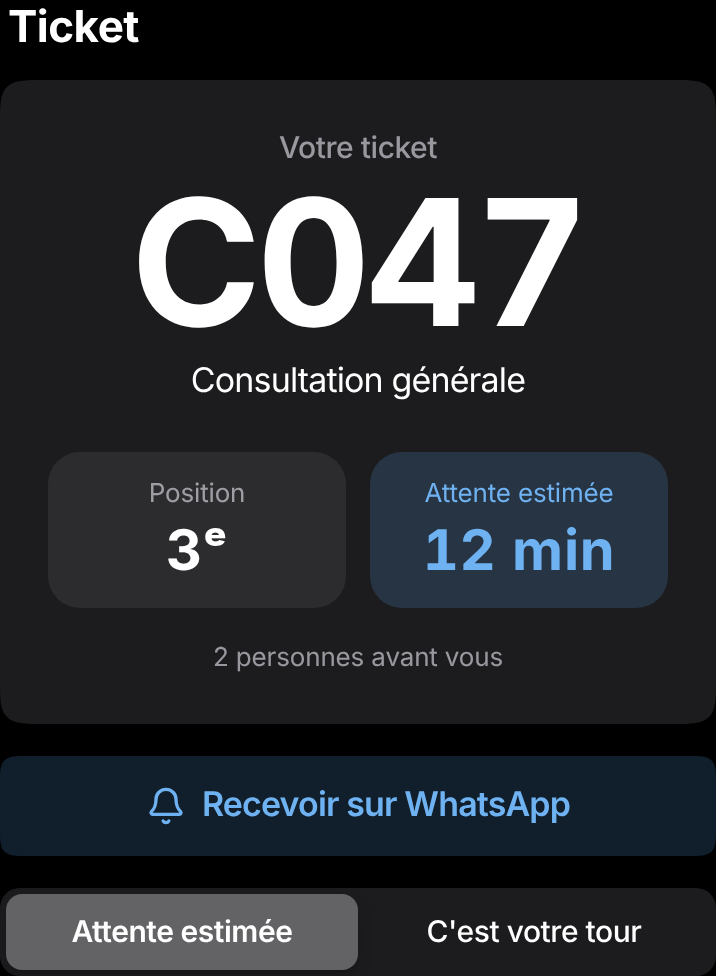
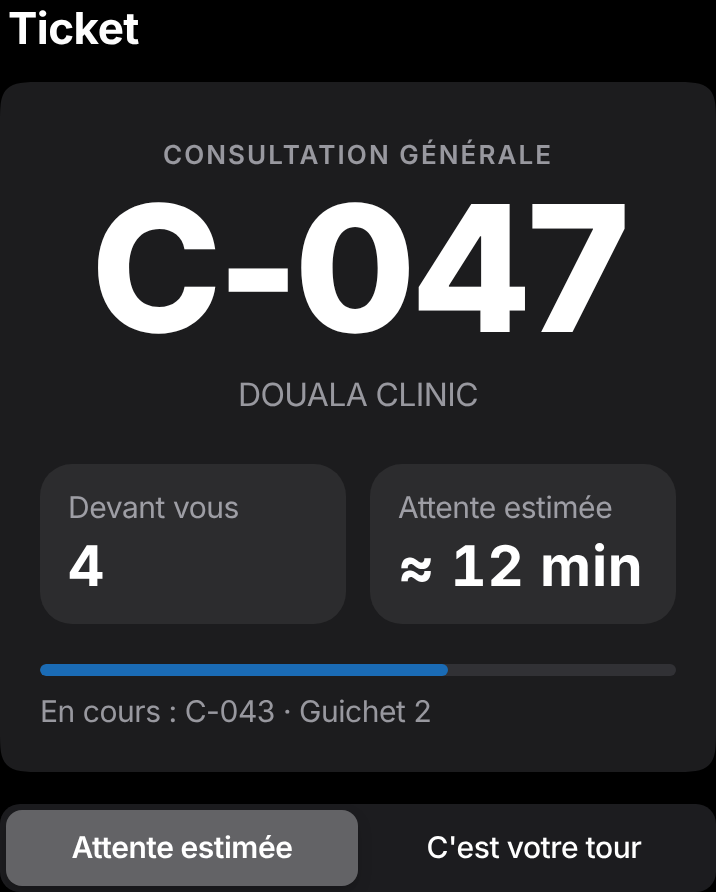
docs: document mockup conventions and refresh M1 screenshots
CLAUDE.md lists the new components, ticket format and mockup mapping; PLAN uses the C-047 format; M1 note and captures updated.

Claude-Session: https://claude.ai/code/session_01HLSS5wEAraJuriJxQHkzit

diff --git a/docs/PLAN.md b/docs/PLAN.md
@@ -160,7 +160,7 @@ subscription_status: trialing | active | past_due | suspended | cancelled
 | Table | Colonnes clés | Contraintes / index |
 |---|---|---|
 | `daily_sequences` | `service_id`, `service_day date`, `last_number` | PK (`service_id`,`service_day`) — incrément atomique `INSERT … ON CONFLICT DO UPDATE … RETURNING` ; jour calculé dans le fuseau de l'agence |
-| `tickets` | `organization_id`, `branch_id`, `service_id`, `service_day`, `number`, `display_code` (ex. `C047`), `public_token` unique (NULL après purge), `customer_user_id` (anonyme ou compte), `source`, `priority_level` smallint (0 normal, 1 prioritaire), `priority_reason`, `status`, `sort_key bigint`, `counter_id` (guichet qui appelle/sert), `preferred_counter_id` (RDV avec un praticien), `appointment_id`, `created_by` (staff), `called_at`, `serving_started_at`, `finished_at`, `recall_count`, `transferred_from_id`, **distance** : `is_remote`, `presence_confirmed_at`, `delay_count`, **note** : `rating` 1-5, `rating_comment`, `rated_at` | unique (`service_id`,`service_day`,`number`) ; **idx partiel** (`service_id`,`priority_level` DESC,`sort_key`) WHERE `status='waiting'` ; idx (`branch_id`,`service_day`,`status`) ; idx (`customer_user_id`) ; idx (`counter_id`) WHERE `status IN ('called','serving')` |
+| `tickets` | `organization_id`, `branch_id`, `service_id`, `service_day`, `number`, `display_code` (ex. `C-047`, format `formatTicketCode`), `public_token` unique (NULL après purge), `customer_user_id` (anonyme ou compte), `source`, `priority_level` smallint (0 normal, 1 prioritaire), `priority_reason`, `status`, `sort_key bigint`, `counter_id` (guichet qui appelle/sert), `preferred_counter_id` (RDV avec un praticien), `appointment_id`, `created_by` (staff), `called_at`, `serving_started_at`, `finished_at`, `recall_count`, `transferred_from_id`, **distance** : `is_remote`, `presence_confirmed_at`, `delay_count`, **note** : `rating` 1-5, `rating_comment`, `rated_at` | unique (`service_id`,`service_day`,`number`) ; **idx partiel** (`service_id`,`priority_level` DESC,`sort_key`) WHERE `status='waiting'` ; idx (`branch_id`,`service_day`,`status`) ; idx (`customer_user_id`) ; idx (`counter_id`) WHERE `status IN ('called','serving')` |
 | `ticket_events` | `ticket_id`, `organization_id`, `type` (created, called, recalled, serving, served, no_show, transferred, moved_back, cancelled, presence_confirmed, rated), `actor_user_id`, `counter_id`, `payload jsonb` | idx (`ticket_id`) ; idx (`organization_id`,`created_at`) — base des statistiques |
 | `appointments` | `organization_id`, `branch_id`, `service_id`, `counter_id`, `scheduled_at`, `customer_label` (initiales, jamais annoncé), `phone_e164` (purgé), `status`, `ticket_id` | idx (`branch_id`,`scheduled_at`) |
 | `service_time_stats` | `service_id`, `counter_id` (NULL = moyenne service), `ewma_seconds`, `samples`, `updated_at` | PK (`service_id`, `counter_id` COALESCE) — mis à jour par trigger à chaque `served` |
@@ -299,7 +299,7 @@ Désactivé par défaut (`remote_tickets_enabled = false`). À `remote_confirm_t
 - L'écran TV hors ligne conserve le dernier état + l'audio en cache ; les annonces reprennent au retour.
 
 ### 5.5 Notifications (M7)
-- Opt-in : bouton « Recevoir mes alertes sur WhatsApp » → `https://wa.me/<numéro>?text=NEXTIN C047-7K3Q` (code ticket + suffixe du token). Le webhook (`whatsapp-webhook`, signature `X-Hub-Signature-256` vérifiée avec `WHATSAPP_APP_SECRET`) lie `wa_id` au ticket, ouvre `window_expires_at = now() + 24 h`, répond `ticket_confirme`.
+- Opt-in : bouton « Recevoir mes alertes sur WhatsApp » → `https://wa.me/<numéro>?text=NEXTIN C-047 7K3Q` (code ticket + suffixe du token). Le webhook (`whatsapp-webhook`, signature `X-Hub-Signature-256` vérifiée avec `WHATSAPP_APP_SECRET`) lie `wa_id` au ticket, ouvre `window_expires_at = now() + 24 h`, répond `ticket_confirme`.
 - Dans la fenêtre : messages de service ; hors fenêtre : modèles approuvés FR/EN `ticket_confirme`, `bientot_votre_tour`, `cest_votre_tour`, `ticket_recule`.
 - `STOP` → `whatsapp_opt_outs` + `opted_out_at`.
 - Dispatcher : WhatsApp → web push (si abonnement) → SMS si pas de WhatsApp, échec de remise ou statut `failed` reçu par webhook (délai de garde 2 min sur `your_turn`). Jamais de nom de client dans les messages.

diff --git a/CLAUDE.md b/CLAUDE.md
@@ -50,13 +50,15 @@ Vitrine de référence : `/design` (`components/design/design-showcase.tsx`). To
 - Accents Wintek **avec parcimonie** : Navy `#0D2C54` (marque), Blue `#1A6BB5` = **seule couleur d'action** (`bg-accent`, `text-accent-text`, `text-accent-on-tint` sur fond teinté), Orange `#F58B1F` (attention), Green `#2EC04E` (succès). Orange/Green en fond ou icône ; pour du texte, utiliser `text-orange-text` / `text-green-text` (AA).
 - `text-label-tertiary` : icônes, chevrons, placeholders seulement — jamais pour du texte informatif (contraste).
 - **Formes** : fond groupé `#F2F2F7`, cartes blanches, rayons continus 12–22 px (`rounded-[var(--radius-*)]` + `squircle`), séparateurs 0,5 px (`hairline-*`), ombres très douces (`shadow-card`).
-- **Composants** (`components/ui`) : `Button` (filled/tinted/gray/plain/destructive/navy), `IconButton` (label obligatoire), `ListSection`/`ListRow`/`ListSwitchRow`, `Card`, `Switch`, `SegmentedControl`, `TextField`/`SearchField`, `NavigationBar` (grand titre réductible + retour en haut à gauche), `TabBar` (translucide, en bas sur mobile), `Sheet` (vaul), `AlertDialog`, `Badge`/`StatusDot`, `Skeleton`, `Spinner`, `ToastProvider`, `TicketHero`. Réutiliser avant de créer.
+- **Composants** (`components/ui`) : `Button` (filled/tinted/gray/plain/destructive/destructive-plain/navy, `leadingIcon`/`trailingIcon`), `IconButton` (label obligatoire), `ListSection`/`ListRow`/`ListSwitchRow`, `Card`, `StatCard`, `CalloutCard`, `Switch`, `SegmentedControl`, `TextField`/`SearchField`, `NavigationBar` (`large` avec sur-titre et grand titre réductible, ou `inline` ; retour en haut à gauche), `TabBar` (translucide, en bas sur mobile), `BottomBar` (action principale collée en bas), `Sheet` (vaul), `AlertDialog`, `Badge` (`pill` pour un statut, `tag` pour une étiquette)/`StatusDot`, `ProgressBar`, `Skeleton`, `Spinner`, `ToastProvider`, `TicketHero`, `NowServingCard`, `ServiceTile`, `ScannerFrame`, `Logo`/`LogoMark`. Réutiliser avant de créer.
 - **Mouvement** : ressort CSS `ease-[var(--ease-spring)]`, 200–420 ms, jamais gratuit ; retour tactile immédiat (`pressable`) ; `prefers-reduced-motion` respecté.
 - **Clair et sombre** sur chaque écran (`data-theme` sur `<html>`, préférence Auto/Clair/Sombre).
 - **Accessibilité** : cibles ≥ 44 px (testé), contrastes AA (axe testé en clair et sombre), `aria-label` sur tout bouton icône, libellés associés aux champs, navigation clavier (`:focus-visible`), rôles ARIA corrects (ex. `ListSection radioGroupLabel` pour les choix exclusifs).
 - **Icônes** : lucide au trait fin (style SF Symbols), `aria-hidden` si décoratives. **Jamais d'emoji.**
 - **Client** : le numéro de ticket et l'attente estimée sont les héros visuels. Pages client < 200 Ko au premier chargement, utilisables en 3G : RSC, JS client minimal, pas de bibliothèque d'animation.
-- Maquette de référence : `design/mockups/` (exports Claude Design) — à suivre fidèlement.
+- **Maquette de référence** : `design/mockups/` (exports Claude Design) — à suivre fidèlement. 01 scanner (toujours sombre, `bg-scanner`), 02 choisir un service, 03 mon ticket, 04 agent/guichet, 05 écran TV (`bg-tv`), 06 tableau de bord, 07 chevalet A5, 08 affiche A4, 09 parcours. Les écrans 01 à 04 sont reconstruits dans `/design` (section « Écrans de la maquette ») : partir de ces compositions pour les vrais écrans.
+- **Ticket** : format `C-047` (`formatTicketCode`), numéro en Navy (`text-ticket-number`, blanc en sombre), graisse extra-bold, jamais en chiffres tabulaires (le tiret s'élargirait). Couleurs de service : palette `SERVICE_COLORS` (pastille lettre, texte blanc).
+- **Marque** : tuile bleue à flèche blanche + « NextIn » (`Logo`), aussi utilisée pour les icônes PWA.
 
 ## i18n
 - Dictionnaires typés `packages/shared/src/i18n/{fr,en}.ts` ; `fr` est la source, `en` doit avoir exactement les mêmes clés et variables (test Vitest).

diff --git a/docs/modules/M1.md b/docs/modules/M1.md
@@ -4,7 +4,9 @@ Statut : **en attente de validation de la page `/design`** avant tout écran.
 
 ## Ce qui est fait
 - **Monorepo** Turborepo + pnpm : `apps/web` (Next.js 16, Tailwind v4, next-intl), `packages/shared` (rôles, téléphone E.164 +237, XAF, `APP_URL`, schémas Zod, i18n FR/EN typé, types DB générés).
-- **Design system Apple HIG** : tokens clair/sombre (`app/globals.css`), 18 composants (`components/ui`), vitrine `/design` avec bascule Apparence (Auto/Clair/Sombre) et Langue (FR/EN).
+- **Design system Apple HIG aligné sur la maquette Claude Design** (`design/mockups/`) : tokens clair/sombre (`app/globals.css`), 27 composants (`components/ui`), vitrine `/design` avec bascule Apparence (Auto/Clair/Sombre) et Langue (FR/EN).
+  - Repris de la maquette : marque (tuile bleue à flèche), ticket `C-047` en Navy, pastilles de service colorées, sur-titre d'établissement, barre de navigation compacte, carte « Client en cours » Navy avec chrono, bouton « Terminer et appeler le suivant → », barre de progression, carte d'alerte, encart sponsorisé, viseur de scan sombre, badges statut/étiquette.
+  - Section « Écrans de la maquette » : les écrans 01 à 04 reconstruits avec les composants (données fictives). 05–08 seront construits dans leurs modules (M6, M8, M2).
 - **Supabase** — 4 migrations M1 :
   - socle : `profiles`, `platform_admins`, `organizations` (dont `data_retention_days` = 30), `memberships`, `invitations` ;
   - fonctions d'autorisation, RPC `create_organization`, `create_invitation`, `accept_invitation` ;
@@ -19,13 +21,13 @@ Statut : **en attente de validation de la page `/design`** avant tout écran.
 ## Tests
 | Suite | Résultat |
 |---|---|
-| Vitest `@nextin/shared` | 28 ✓ |
+| Vitest `@nextin/shared` | 45 ✓ |
 | Vitest `@nextin/web` | 6 ✓ |
 | pgTAP M1 (RLS, rôles, invitations, audit, rate limit, purge) | 44 ✓ |
-| Playwright `/design` + PWA (mobile + desktop) | 32 ✓ — dont axe WCAG AA clair/sombre, cibles ≥ 44 px, page hors ligne |
+| Playwright `/design` + PWA (mobile + desktop) | 34 ✓ — dont axe WCAG AA clair/sombre, cibles ≥ 44 px, page hors ligne |
 
 ## Captures
-`docs/captures/m1/` : `design-mobile-{light,dark}.png` (pleine page), `design-desktop-{light,dark}.png`, `sheet-{light,dark}.png`, `ticket-{light,dark}.png`.
+`docs/captures/m1/` : `design-mobile-{light,dark}.png` (pleine page), `design-desktop-{light,dark}.png`, `sheet-{light,dark}.png`, `ticket-{light,dark}.png`, `mockups-{light,dark}.png` (écrans de la maquette reconstruits).
 
 ## Tester
 ```bash
@@ -42,4 +44,3 @@ pnpm dev                               # puis http://localhost:3000/design
 ## Bloquants signalés
 - `NEXT_PUBLIC_SUPABASE_URL`, clés, `SUPABASE_PROJECT_REF`, `SUPABASE_DB_PASSWORD`, `SUPABASE_ACCESS_TOKEN` contiennent des valeurs factices (`ton-ref`, `...`) : migrations non appliquées au distant. Valeurs à prendre dans Supabase → Project Settings → API / Database, et Account → Access Tokens.
 - `NEXT_PUBLIC_TURNSTILE_SITE_KEY` / `TURNSTILE_SECRET_KEY` absentes (Cloudflare → Turnstile).
-- Maquettes PNG non reçues dans la session : `design/mockups/` est vide.
